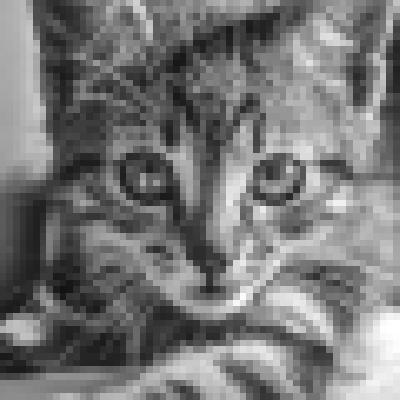
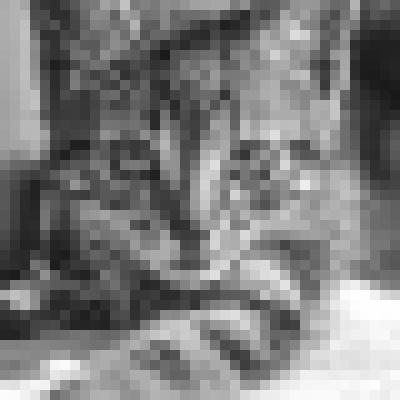
o

diff --git a/imageshow.py b/imageshow.py
@@ -14,7 +14,7 @@ Ox = CanvasWidth/2
 Oy = CanvasHeight/2
 frameRadius = 200
 pointsList = []
-reducedReso_Size = 20*20
+reducedReso_Size = 40*40
 reducedReso_pixelgap = int((2*frameRadius)/math.sqrt(reducedReso_Size))
 C = Canvas(root, bg="#2B2C2B",
            height=CanvasHeight, width=CanvasWidth)
@@ -41,7 +41,6 @@ def resizePhoto(maxWidth , imagePath):
 
   gsimageData = grayscaledImage.load()
   print(gsimageData)
-
   reducedreso = []
   for i in range(int(math.sqrt(reducedReso_Size))):
     innerlist_reducedreso = []
@@ -50,9 +49,7 @@ def resizePhoto(maxWidth , imagePath):
       for x in range(reducedReso_pixelgap):
        for y in range(reducedReso_pixelgap):
          averagebigPixelSum += gsimageData[(reducedReso_pixelgap)*i+x , (reducedReso_pixelgap)*j+y]
-    
       innerlist_reducedreso.append(int(averagebigPixelSum/(reducedReso_pixelgap**2))) 
-       
     reducedreso.append(innerlist_reducedreso) 
   reducedResoImage = Image.new('L', (int(math.sqrt(reducedReso_Size)),int(math.sqrt(reducedReso_Size))))
   reducedResoPixels = reducedResoImage.load()

diff --git a/imageManipulation.py b/imageManipulation.py
@@ -4,19 +4,15 @@ from PIL import Image, ImageTk
 
 def Scale(REDUCEDRESO , FRAMERADIUS ):
     print(len(REDUCEDRESO))
-    print(REDUCEDRESO[59][59])
 
-    print(REDUCEDRESO)
     finalImage = Image.new("L" , (2*FRAMERADIUS,2*FRAMERADIUS))
     finalImagePixelData = finalImage.load()
     gap = (2*FRAMERADIUS)/len(REDUCEDRESO)
-    print(gap)
     for i in range(len(REDUCEDRESO)):
         for j in range(len(REDUCEDRESO)):
             for x in range(round(gap)):
               for y in range(round(gap)):
                   finalImagePixelData[ int(gap*i)+ x, int(gap*j)+y] = int(REDUCEDRESO[i][j])
     finalImage.save("checkfinal.jpg") 
-    print(finalImagePixelData[399,399]) 
     return finalImage
                 
